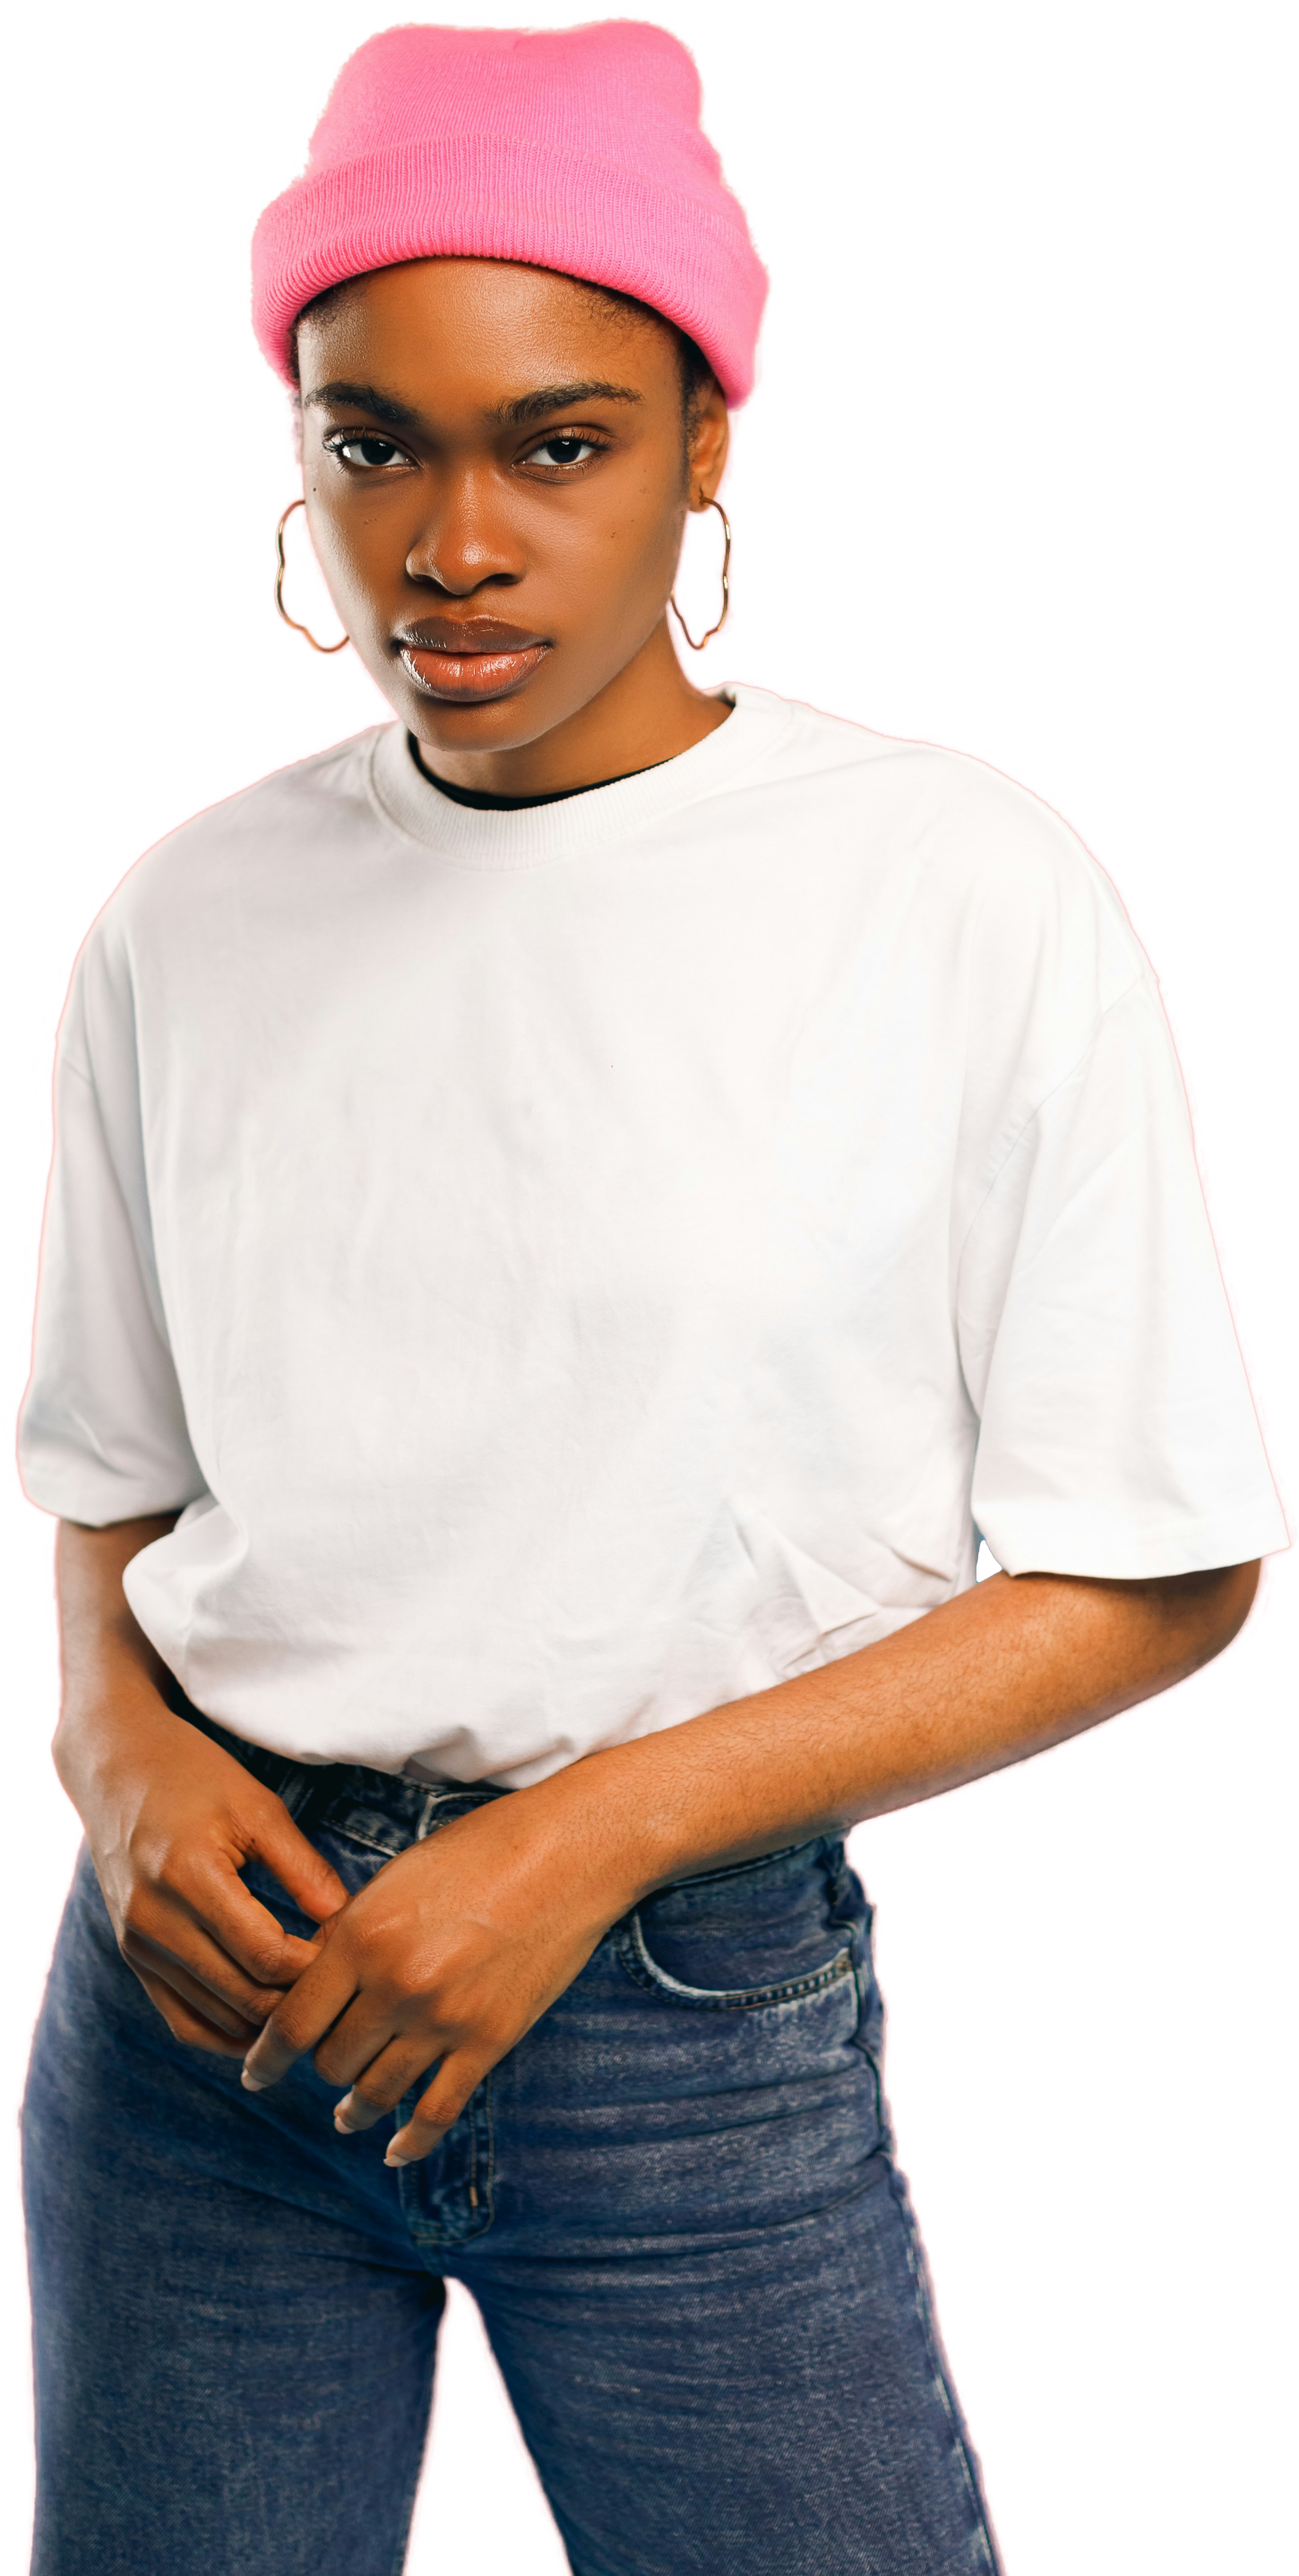
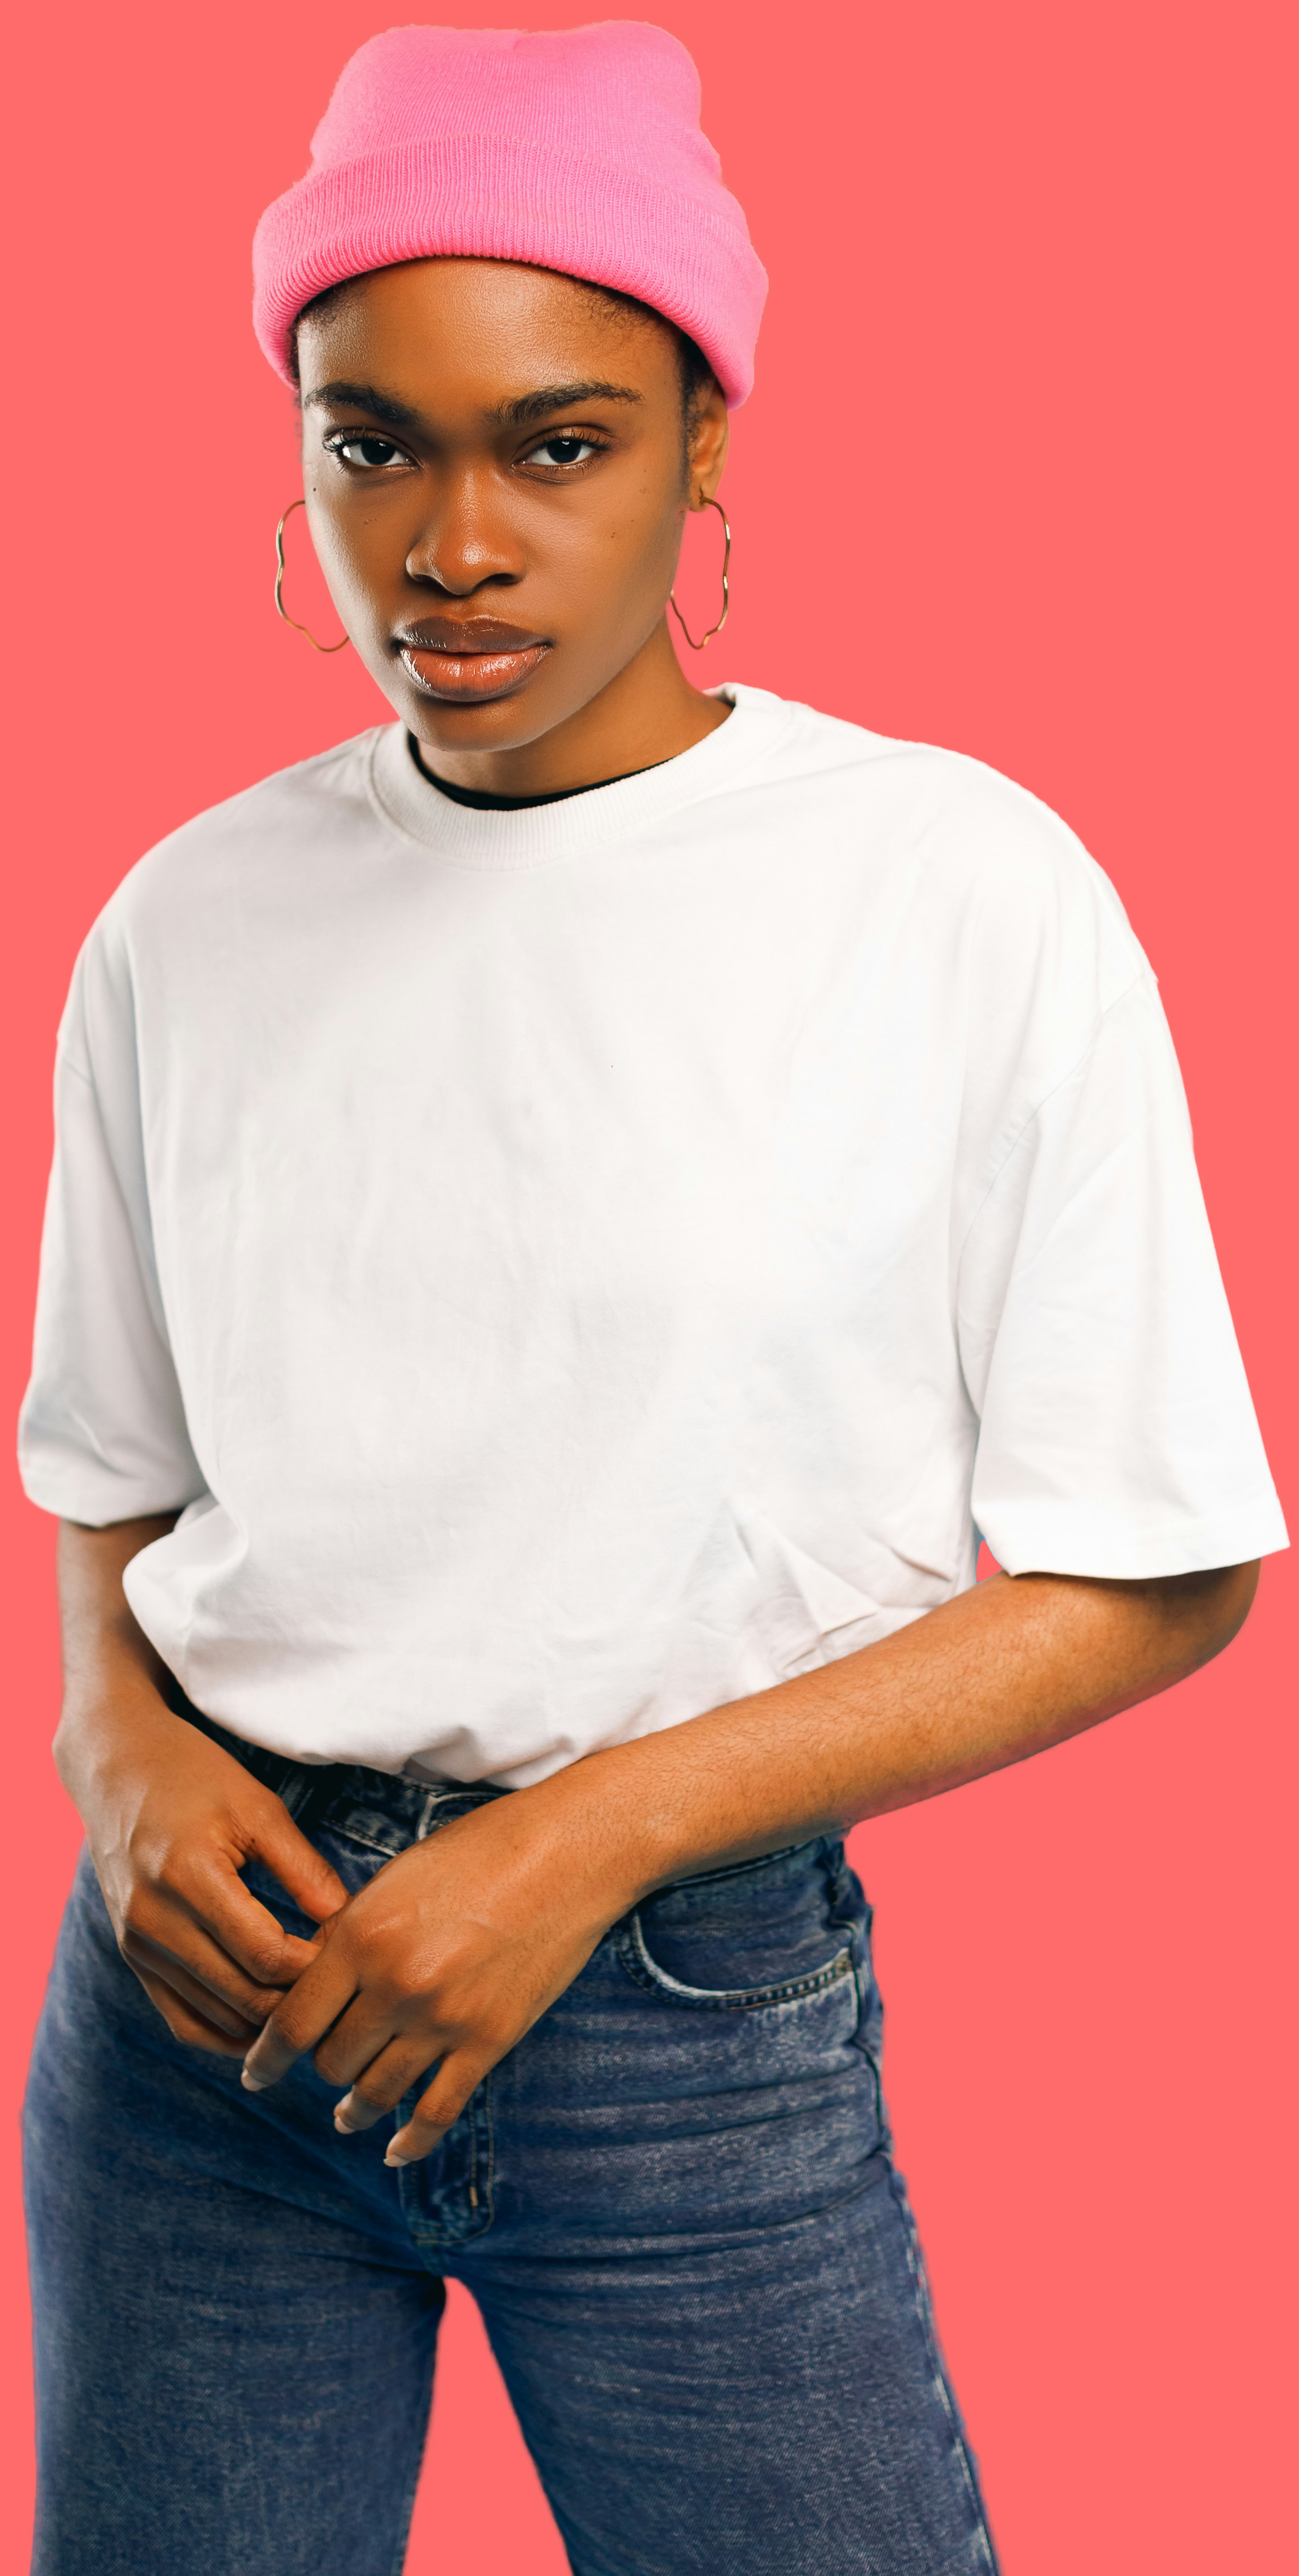
feat: random hero figure rotation on splash screen
Add 7 new student cutout images alongside the original pink hat girl.
Each time the splash screen mounts, one of the 8 figures is randomly
selected. All images pre-composited against coral to prevent dark-tint
artefacts from transparent pixels.

Made-with: Cursor

diff --git a/src/components/mobile/LandingPage.tsx b/src/components/mobile/LandingPage.tsx
@@ -1,9 +1,19 @@
+import { useMemo } from 'react';
 import { motion } from 'motion/react';
 import { Button } from '@/components/ui/button';
 import { ArrowRight } from 'lucide-react';
 
 const MM_LOGO = '/images/mm-logo-wordmark-white.png';
-const heroStudent = '/images/hero-student.png';
+const HERO_FIGURES = [
+  '/images/hero-student.png',
+  '/images/hero-splash-1.png',
+  '/images/hero-splash-2.png',
+  '/images/hero-splash-3.png',
+  '/images/hero-splash-4.png',
+  '/images/hero-splash-5.png',
+  '/images/hero-splash-6.png',
+  '/images/hero-splash-7.png',
+];
 const coral = '#FF6B6B';
 const spectra = '#2D4C4C';
 
@@ -12,6 +22,7 @@ interface SplashScreenProps {
 }
 
 export function SplashScreen({ onGetStarted }: SplashScreenProps) {
+  const heroSrc = useMemo(() => HERO_FIGURES[Math.floor(Math.random() * HERO_FIGURES.length)], []);
   return (
     <motion.div
       initial={{ opacity: 0 }}
@@ -106,7 +117,7 @@ export function SplashScreen({ onGetStarted }: SplashScreenProps) {
             }}
           >
             <img
-              src={heroStudent}
+              src={heroSrc}
               alt="Student"
               style={{
                 width: '100%',
